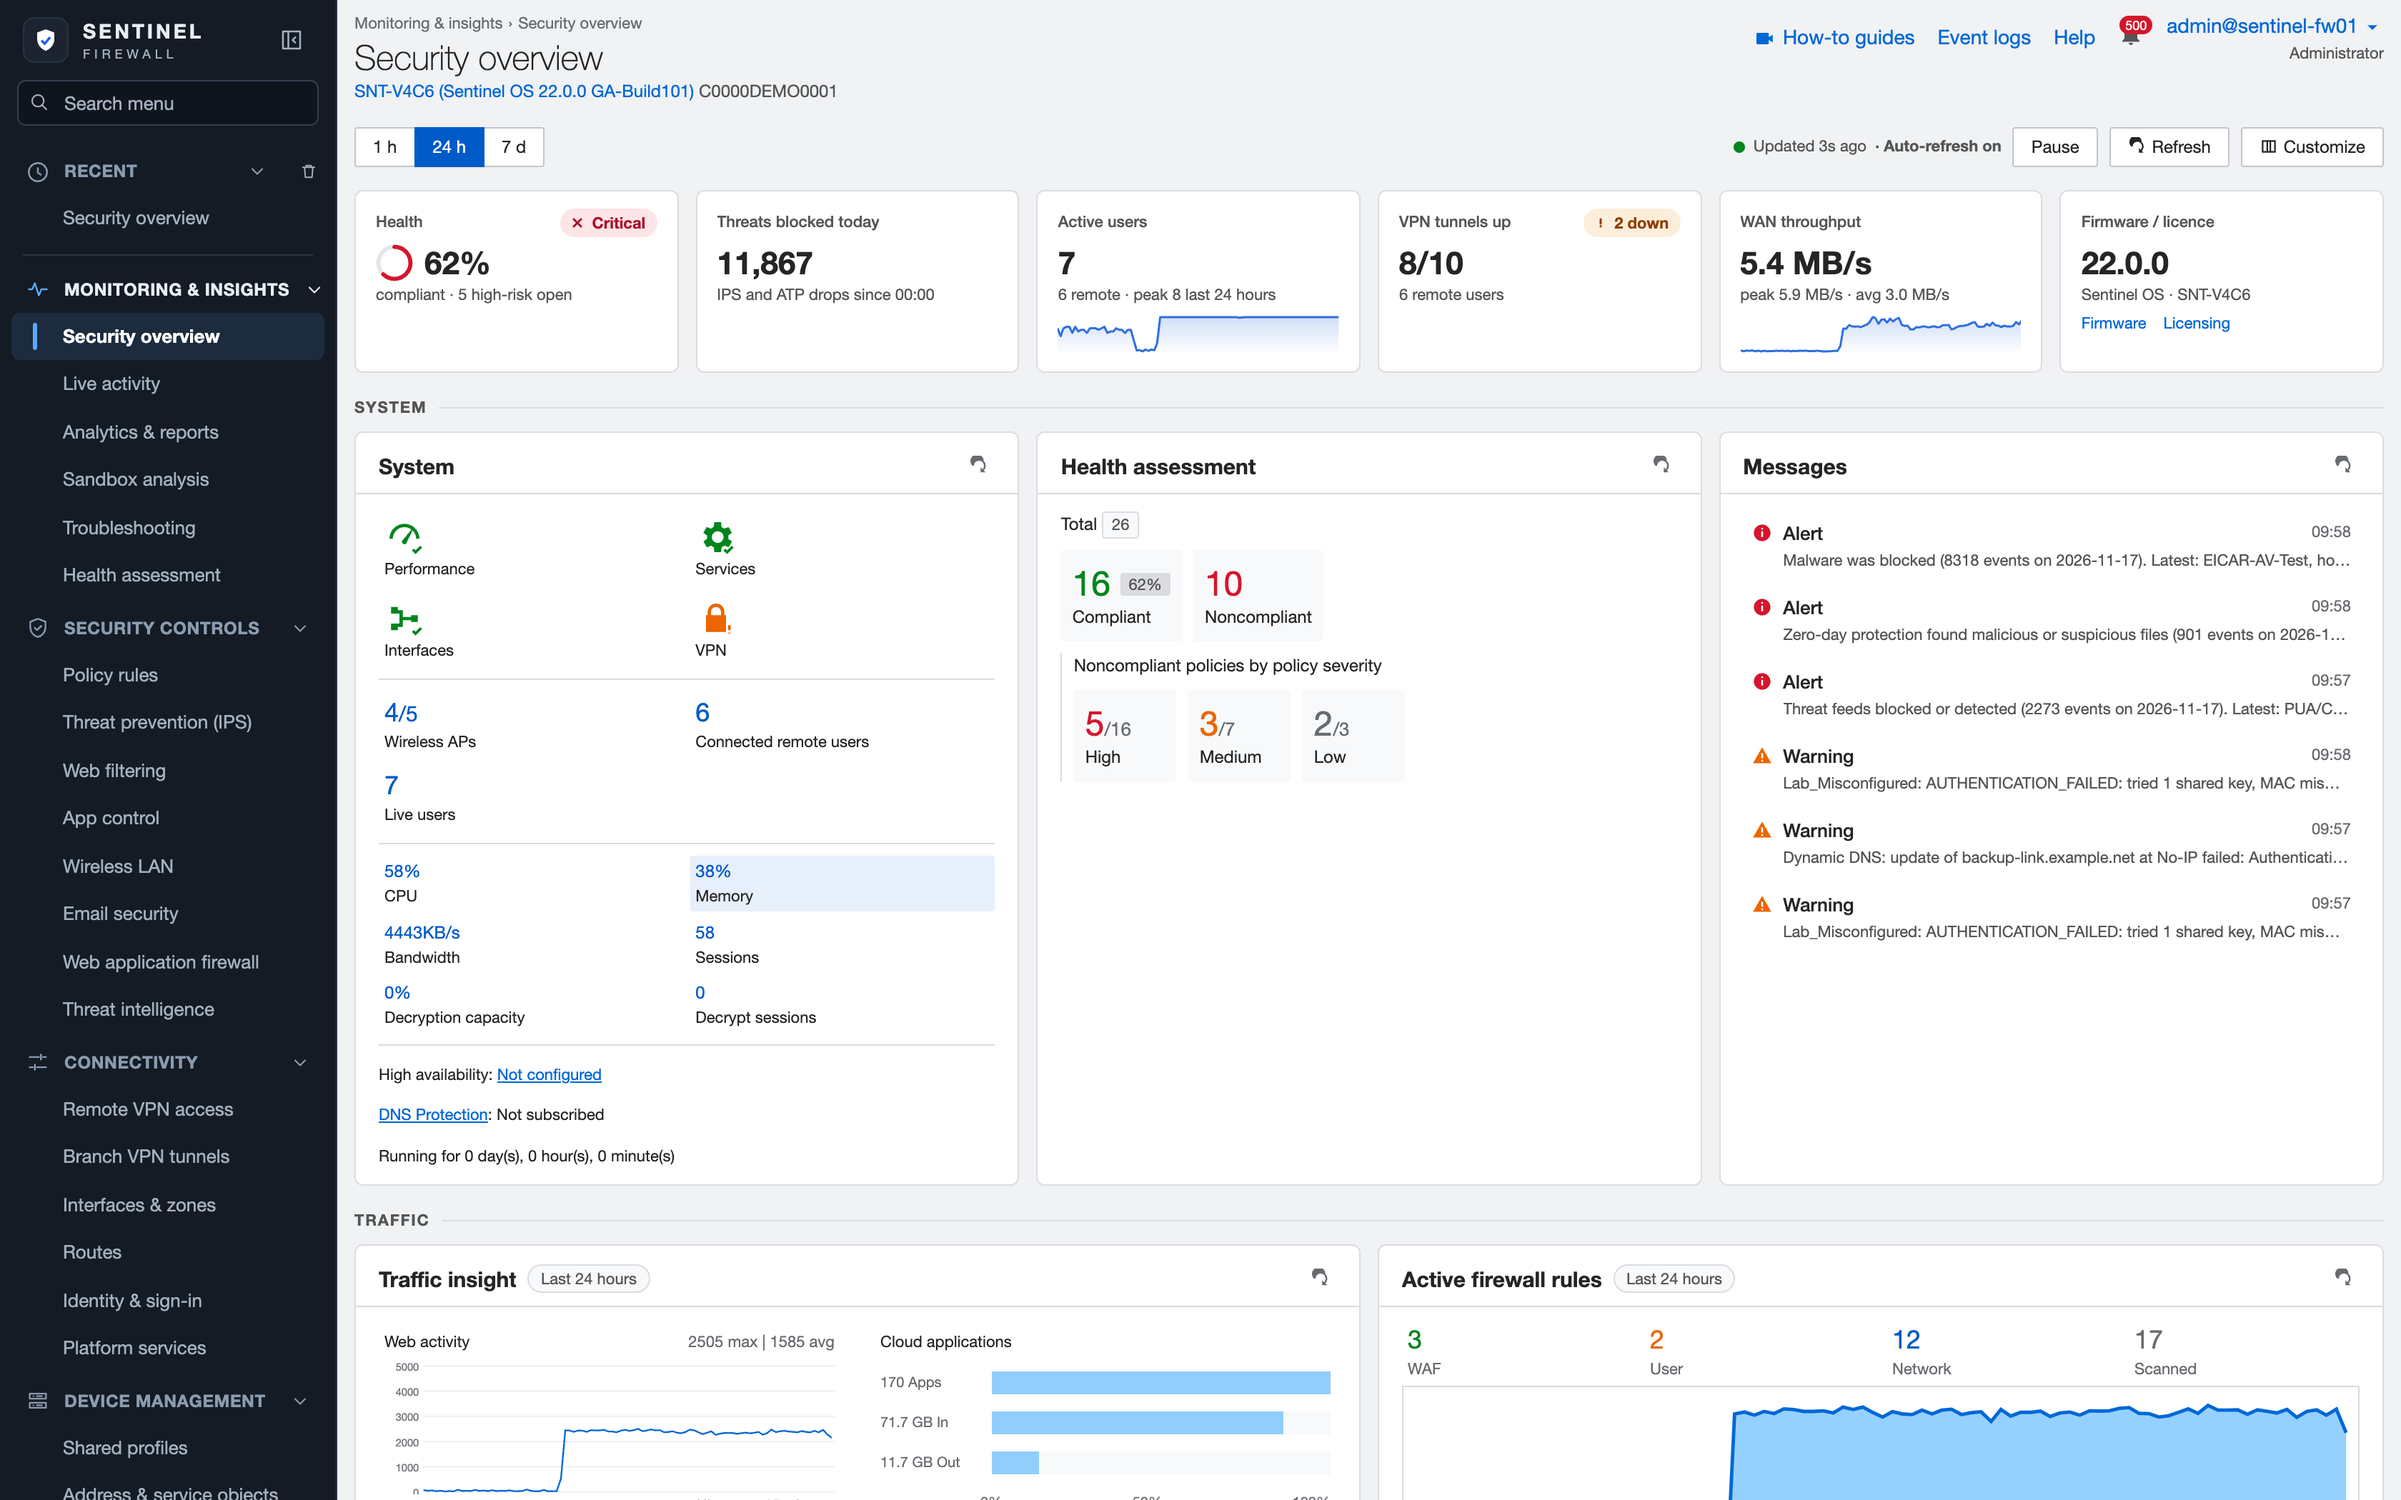
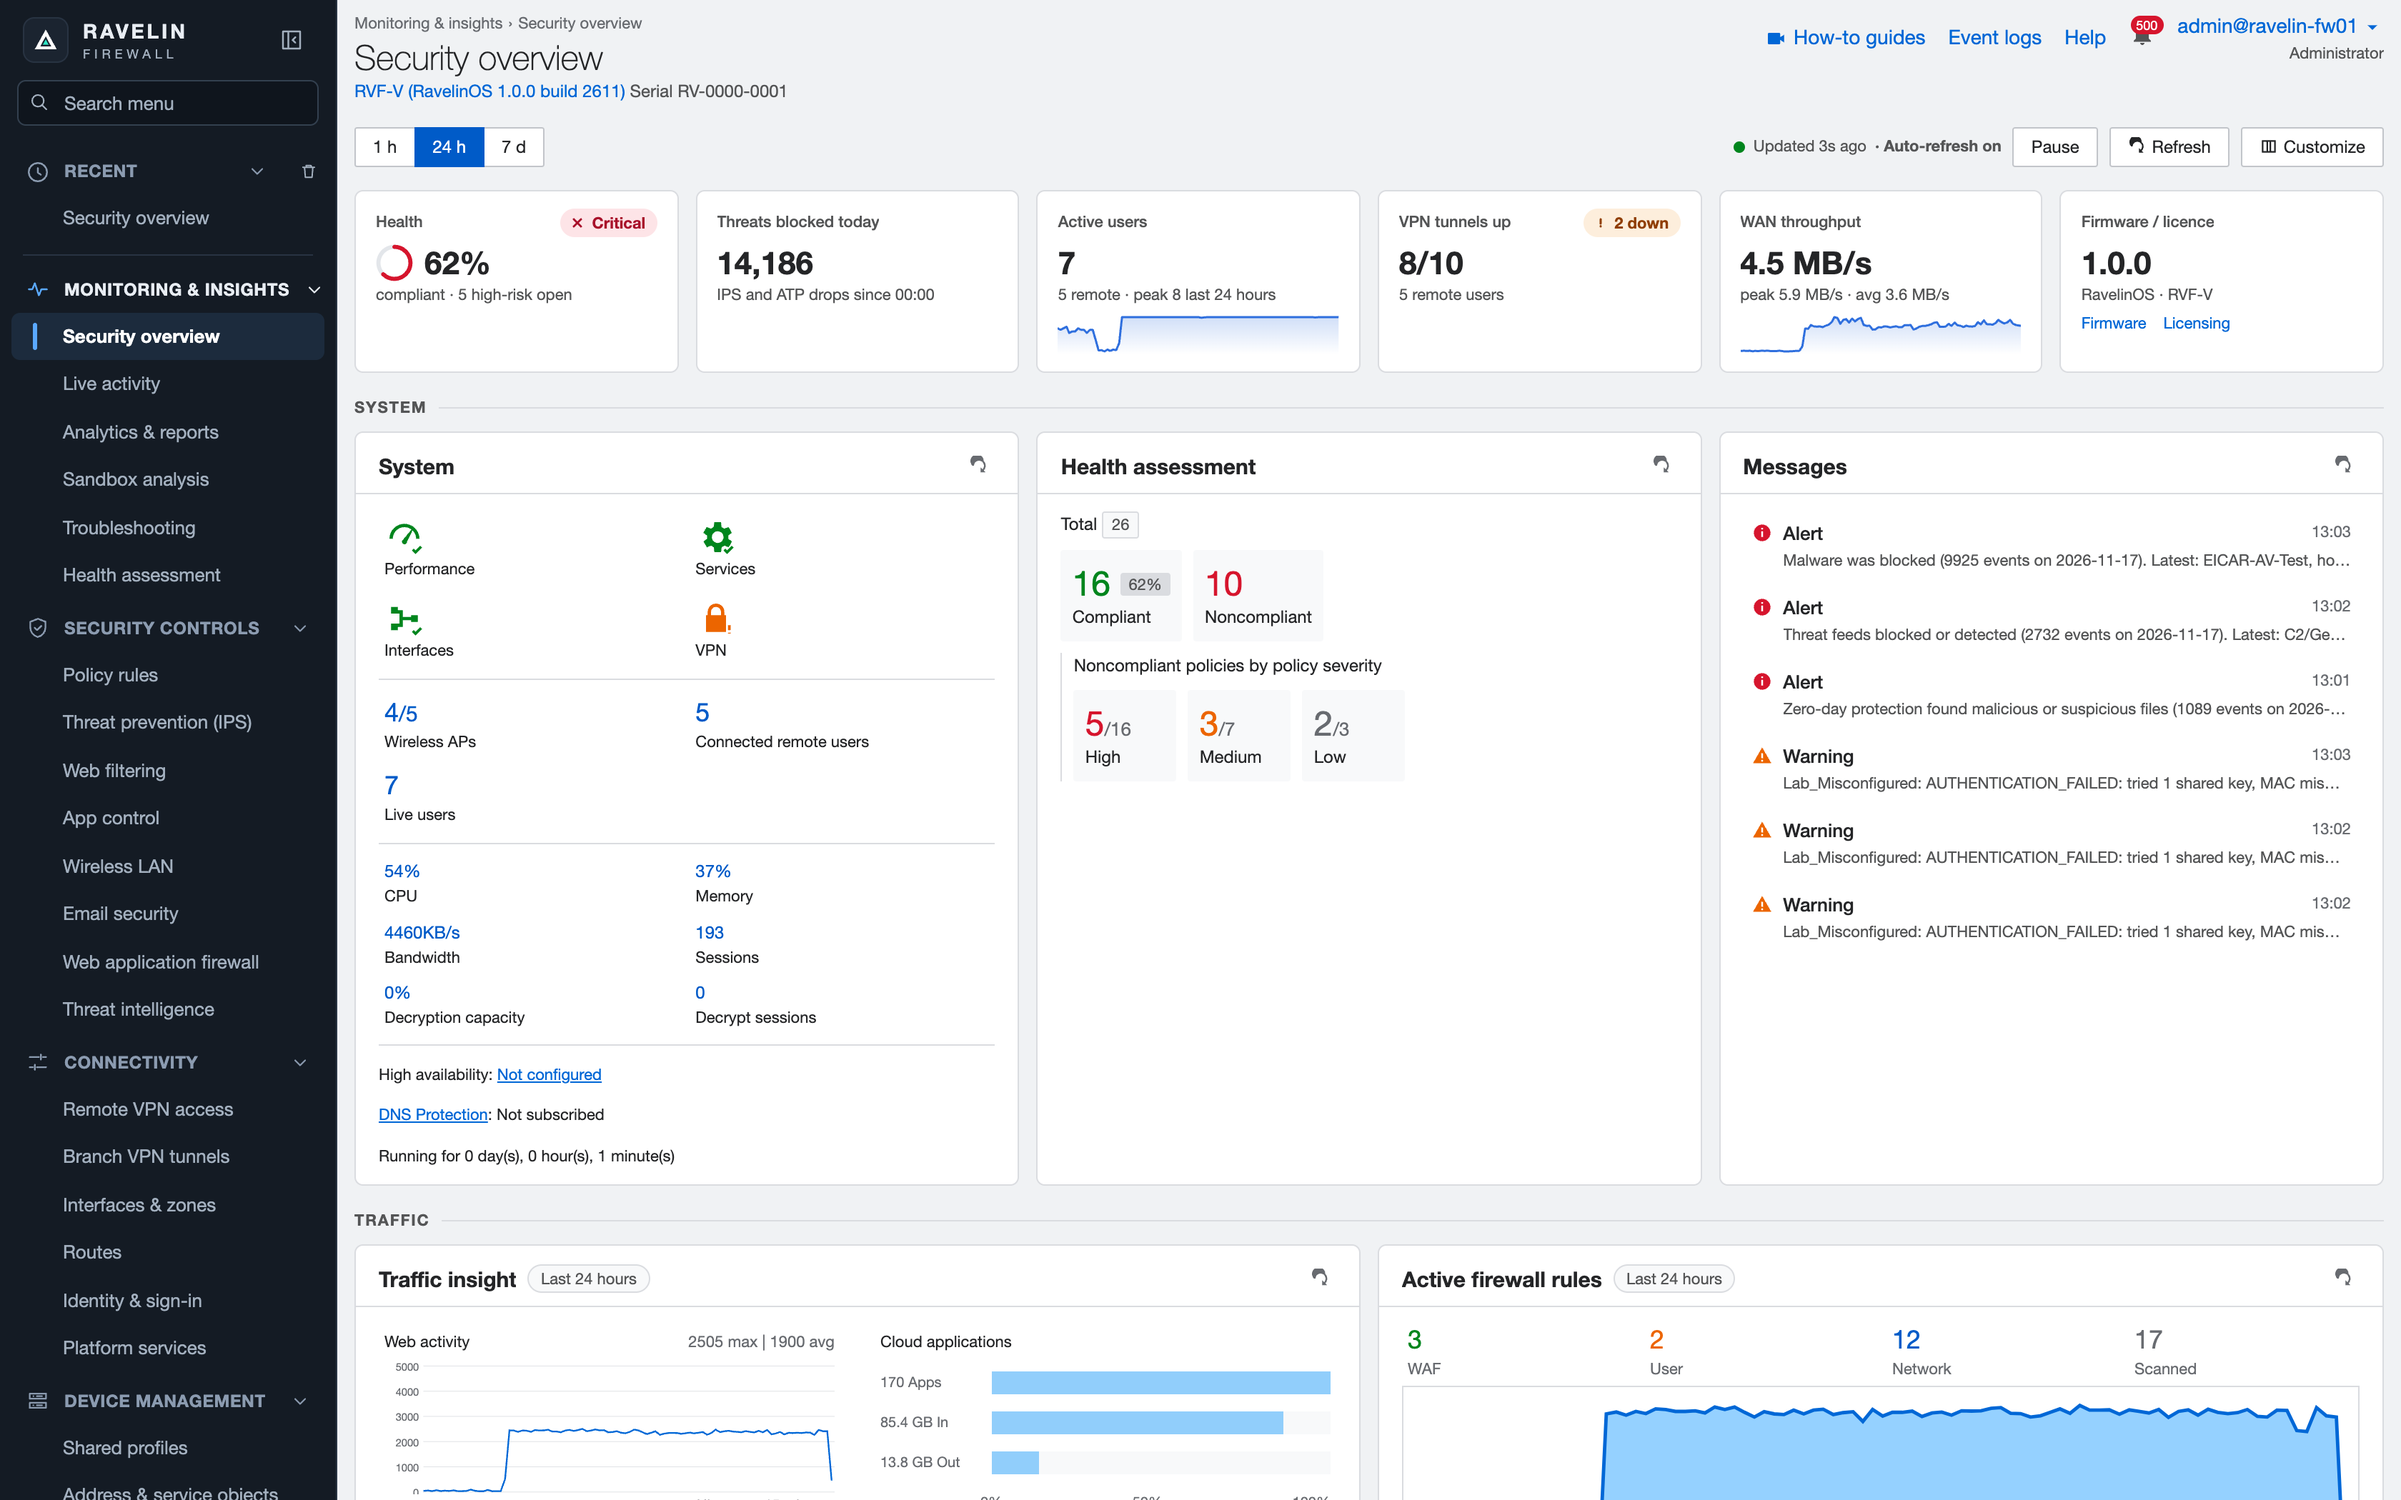
Rename to Ravelin Firewall: new sign-in page and updated screenshots

diff --git a/README.md b/README.md
@@ -1,7 +1,11 @@
 # Firewall_xxi
 
-Screenshots of the **Sentinel Firewall** admin console: the main dashboard and the most important features.
+Screenshots of the **Ravelin Firewall** admin console: the main dashboard and the most important features.
 All data shown is invented demo data and simulated traffic.
+
+## Sign-in
+
+![Sign-in page](screenshots/00-login.png)
 
 ## Dashboard
 
